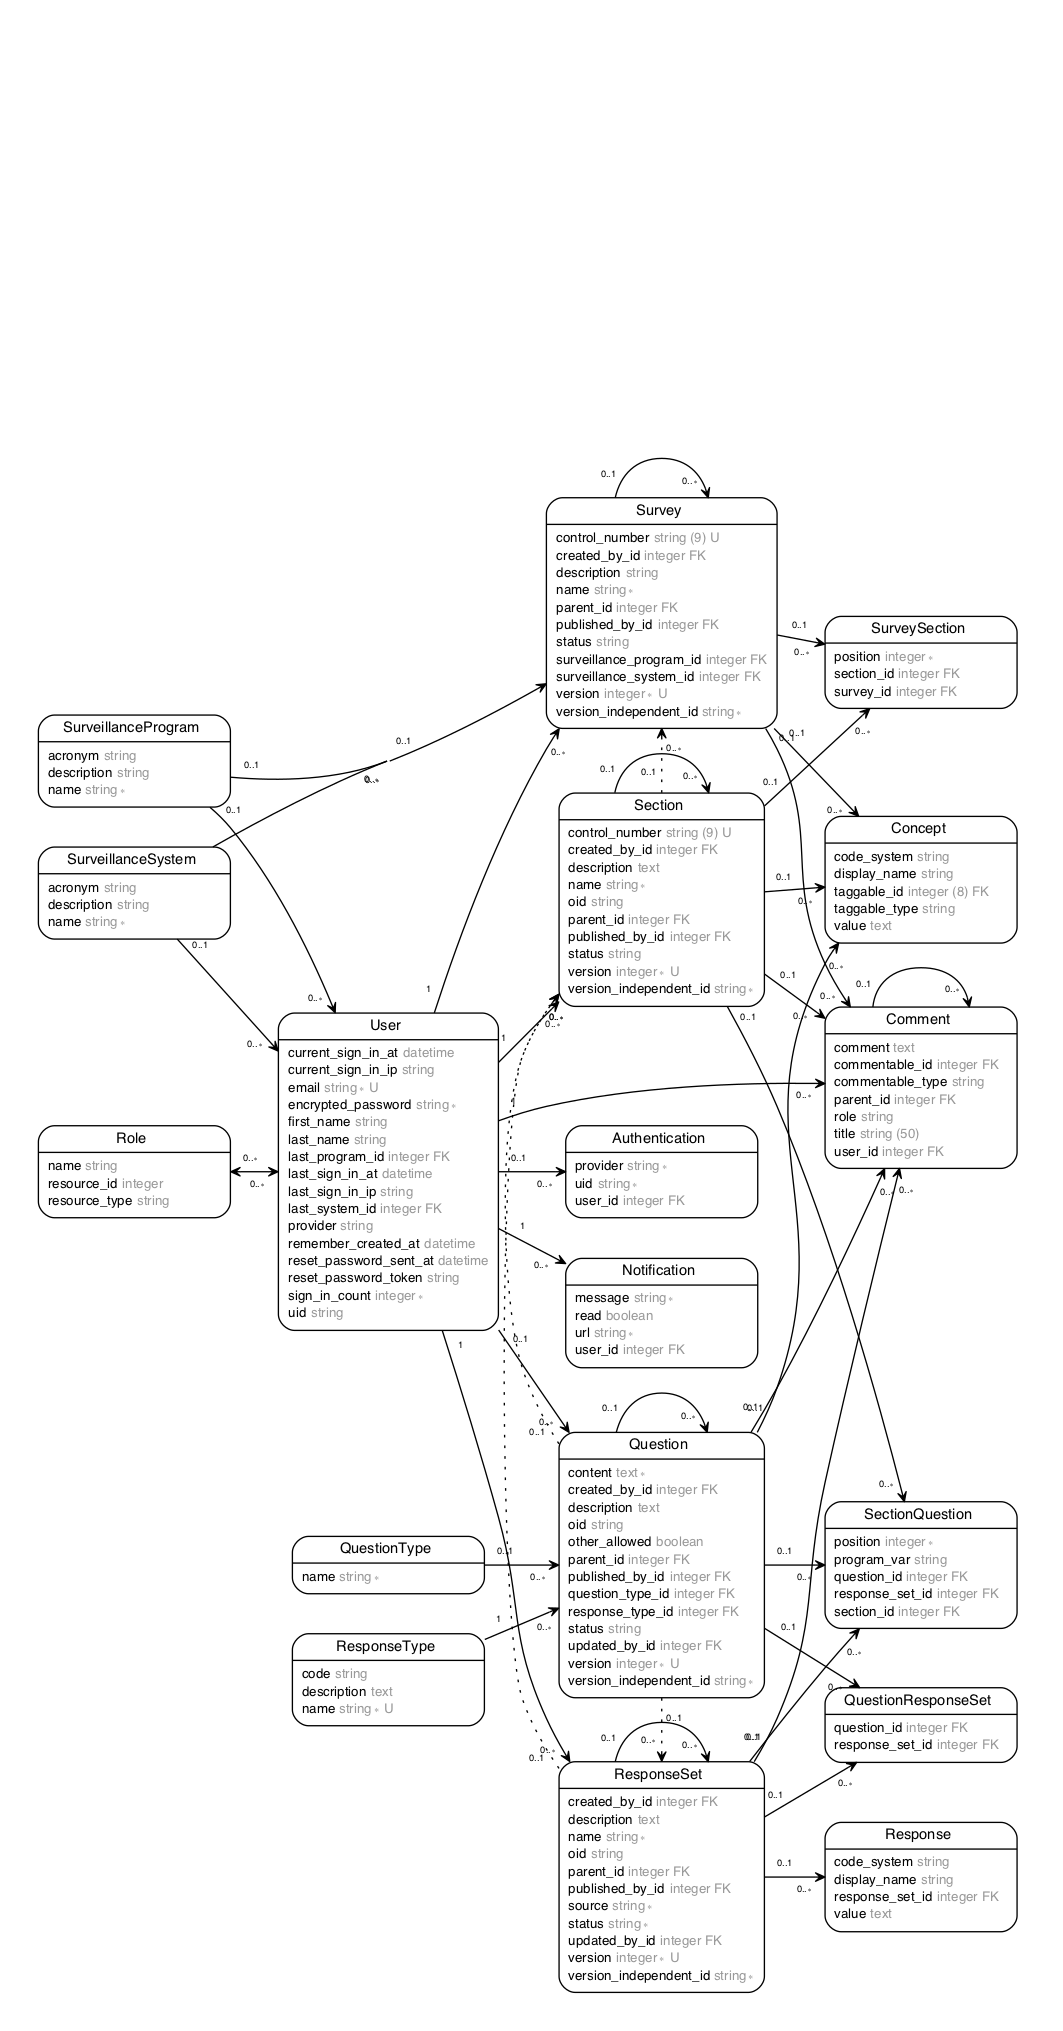
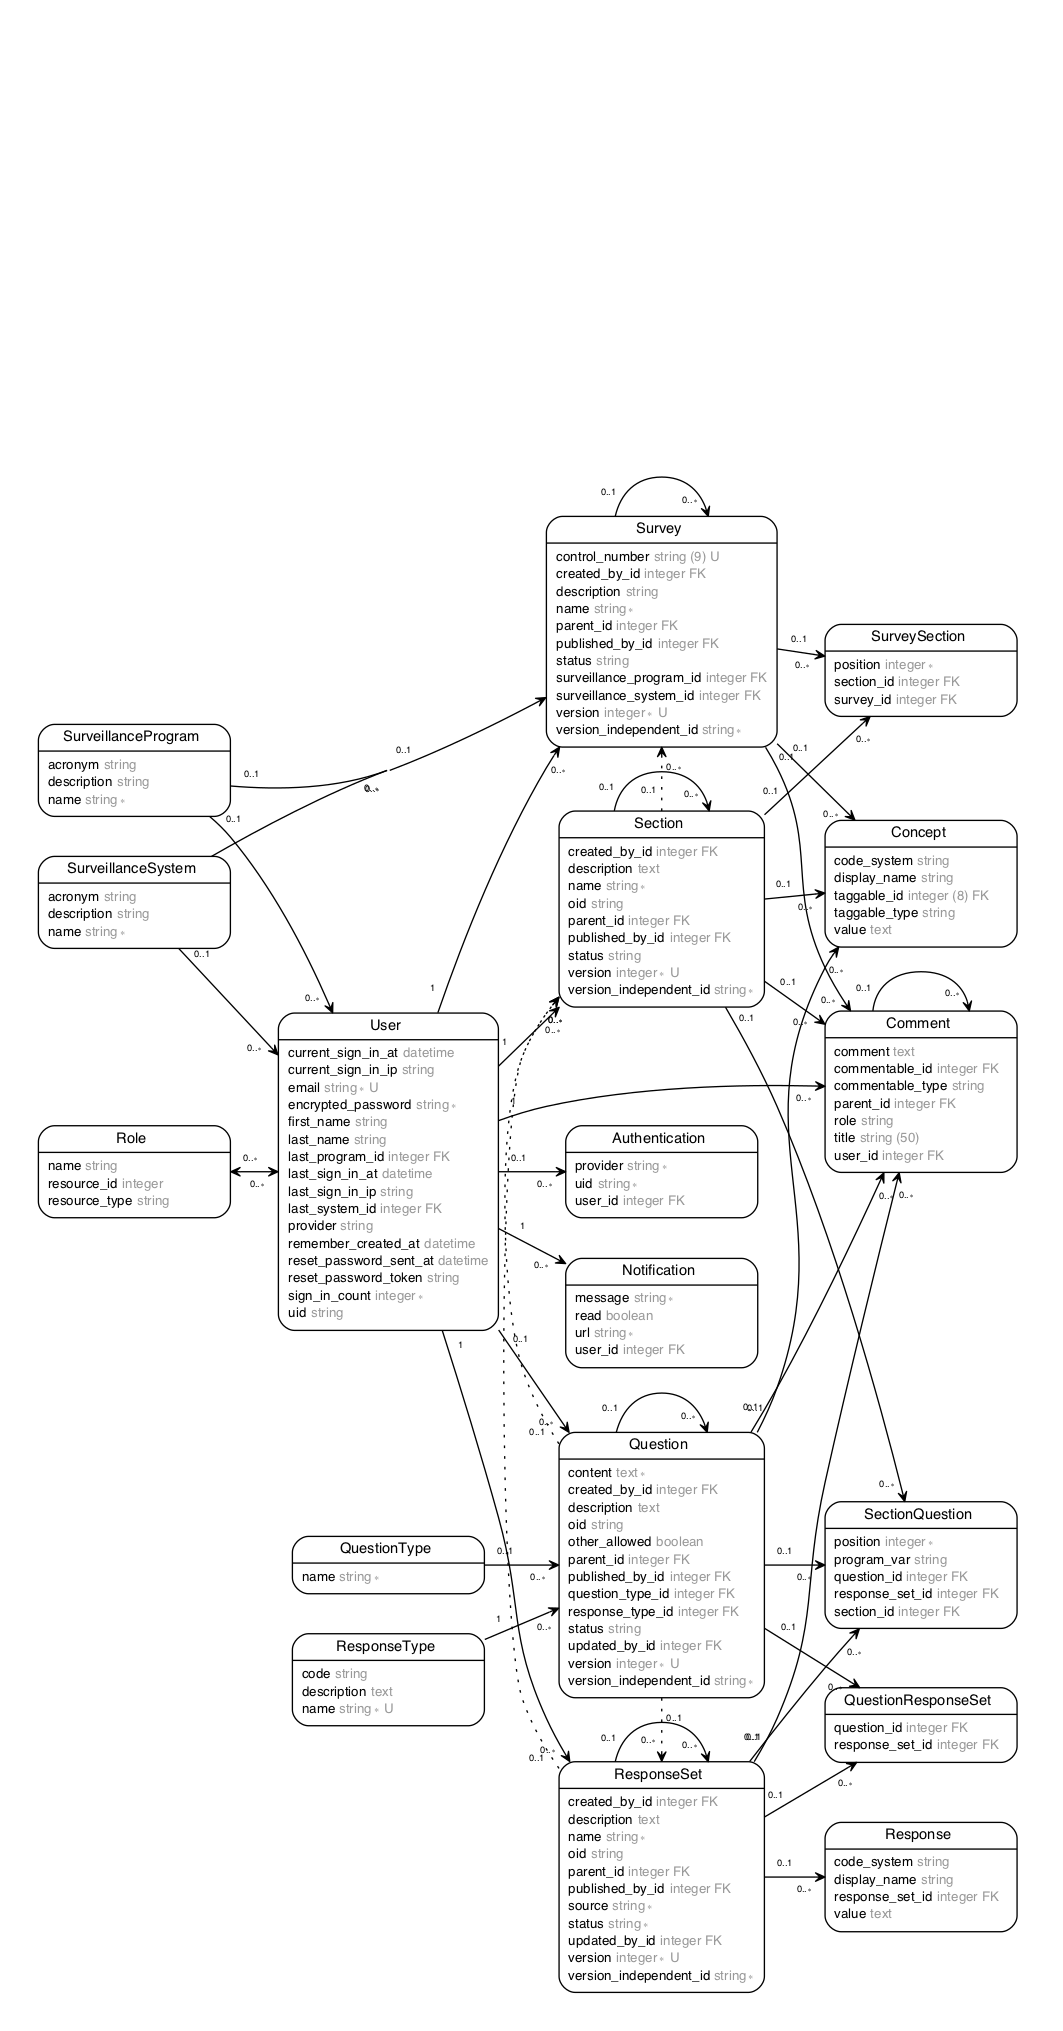
Removing omb from sections, already on surveys

diff --git a/webpack/components/sections/SectionEdit.js b/webpack/components/sections/SectionEdit.js
@@ -29,7 +29,6 @@ class SectionEdit extends Component {
     state.versionIndependentId = null;
     state.version = 1;
     state.parentId = section.id;
-    state.controlNumber = '';
     return state;
   }
 
@@ -40,12 +39,11 @@ class SectionEdit extends Component {
     const name = section.name || '';
     const description = section.description || '';
     const sectionQuestions = section.sectionQuestions || [];
-    const controlNumber = section.controlNumber;
     const showWarningModal = false;
     const parentId = section.parent ? section.parent.id : '';
     const conceptsAttributes = filterConcepts(section.concepts) || [];
     const linkedResponseSets = this.findLinkedResponseSets(sectionQuestions);
-    return {sectionQuestions, name, id, version, versionIndependentId, controlNumber, description, showWarningModal, parentId, linkedResponseSets, conceptsAttributes};
+    return {sectionQuestions, name, id, version, versionIndependentId, description, showWarningModal, parentId, linkedResponseSets, conceptsAttributes};
   }
 
   constructor(props) {
@@ -73,7 +71,6 @@ class SectionEdit extends Component {
     this.cancelLeaveModal = this.cancelLeaveModal.bind(this);
     this.handleChangeName = this.handleChangeName.bind(this);
     this.moveQuestionDown = this.moveQuestionDown.bind(this);
-    this.handleChangeControl = this.handleChangeControl.bind(this);
     this.handleModalResponse = this.handleModalResponse.bind(this);
     this.handleProgramVarChange   = this.handleProgramVarChange.bind(this);
     this.handleChangeDescription  = this.handleChangeDescription.bind(this);
@@ -164,10 +161,6 @@ class SectionEdit extends Component {
 
   handleChangeDescription(event){
     this.handleChange('description', event);
-  }
-
-  handleChangeControl(event){
-    this.handleChange('controlNumber', event);
   }
 
   handleSubmit(event) {
@@ -338,17 +331,13 @@ class SectionEdit extends Component {
             <div className="row">
               <div className="section-group col-md-12">
                 <label htmlFor="section-name" hidden>Name</label>
-                <input tabIndex="3" className="input-format" placeholder="Name" type="text" value={this.state.name} name="section-name" id="section-name" onChange={this.handleChangeName}/>
+                <input tabIndex="3" className="input-format" placeholder="Section Name" type="text" value={this.state.name} name="section-name" id="section-name" onChange={this.handleChangeName}/>
               </div>
             </div>
             <div className="row">
-              <div className="section-group col-md-8">
+              <div className="section-group col-md-12">
                 <label htmlFor="section-description">Description</label>
                 <input tabIndex="3" className="input-format" placeholder="Enter a description here..." type="text" value={this.state.description || ''} name="section-description" id="section-description" onChange={this.handleChangeDescription}/>
-              </div>
-              <div className="section-group col-md-4">
-                <label htmlFor="controlNumber">OMB Approval</label>
-                <input tabIndex="3" className="input-format" placeholder="XXXX-XXXX" type="text" value={this.state.controlNumber || ''} name="controlNumber" id="controlNumber" onChange={this.handleChangeControl}/>
               </div>
             </div>
           </div>

diff --git a/webpack/components/surveys/SurveyEdit.js b/webpack/components/surveys/SurveyEdit.js
@@ -201,13 +201,13 @@ class SurveyEdit extends Component {
             <div className="row">
               <div className="survey-group col-md-12">
                 <label htmlFor="survey-name" hidden>Name</label>
-                <input tabIndex="3" className="input-format" placeholder="Name" type="text" value={this.state.name} name="survey-name" id="survey-name" onChange={this.handleChange('name')}/>
+                <input tabIndex="3" className="input-format" placeholder="Survey Name" type="text" value={this.state.name} name="survey-name" id="survey-name" onChange={this.handleChange('name')}/>
               </div>
             </div>
             <div className="row">
               <div className="survey-group col-md-8">
                 <label htmlFor="survey-description">Description</label>
-                <input tabIndex="3" className="input-format" type="text" value={this.state.description || ''} name="survey-description" id="survey-description" onChange={this.handleChange('description')}/>
+                <input tabIndex="3" className="input-format" placeholder="Enter a description here..." type="text" value={this.state.description || ''} name="survey-description" id="survey-description" onChange={this.handleChange('description')}/>
               </div>
               <div className="survey-group col-md-4">
                 <label htmlFor="controlNumber">OMB Approval</label>

diff --git a/app/models/section.rb b/app/models/section.rb
@@ -14,10 +14,6 @@ class Section < ApplicationRecord
 
   validates :name, presence: true
   validates :created_by, presence: true
-  validates :control_number, allow_blank: true, format: { with: /\A\d{4}-\d{4}\z/,
-                                                          message: 'must be a valid OMB Control Number' },
-                             uniqueness: { message: 'sections should have different OMB Control Numbers',
-                                           unless: proc { |s| s.version > 1 && s.other_versions.map(&:control_number).include?(s.control_number) } }
 
   accepts_nested_attributes_for :questions, allow_destroy: true
 
@@ -82,16 +78,12 @@ class Section < ApplicationRecord
     new_revision = Section.new(version_independent_id: version_independent_id,
                                description: description, parent_id: parent_id, status: status,
                                version: version + 1, name: name, oid: oid,
-                               created_by: created_by, control_number: control_number)
+                               created_by: created_by)
     concepts.each do |c|
       new_revision.concepts << c.dup
     end
 
     new_revision
-  end
-
-  def omb_approved?
-    control_number.present?
   end
 
   # Get the programs that the section is associated with by the surveys that the

diff --git a/test/models/section_test.rb b/test/models/section_test.rb
@@ -16,19 +16,6 @@ class SectionTest < ActiveSupport::TestCase
     assert_nil revision.oid
   end
 
-  test 'make sure the OMB control number is unique' do
-    sect = Section.new(name: 'Doubly Double', control_number: '1234-5678')
-    assert_not sect.save
-  end
-
-  test 'same OMB control number is OK across versions' do
-    sect = sections(:one)
-    revision = sect.build_new_revision
-    assert_equal 2, revision.version
-    assert revision.save
-    assert_equal sect.control_number, revision.control_number
-  end
-
   test 'Publish also publishes questions and response sets' do
     user = users(:admin)
     rs = ResponseSet.new(name: 'Test publish', created_by: user)

diff --git a/app/controllers/sections_controller.rb b/app/controllers/sections_controller.rb
@@ -167,7 +167,7 @@ class SectionsController < ApplicationController
   # Never trust parameters from the scary internet, only allow the white list through.
   def section_params
     params.require(:section).permit(:name, :user_id, :search, :description, :parent_id,
-                                    :status, :version_independent_id, :control_number,
+                                    :status, :version_independent_id,
                                     concepts_attributes: [:id, :value, :display_name, :code_system])
   end
 end

diff --git a/test/controllers/sections_controller_test.rb b/test/controllers/sections_controller_test.rb
@@ -69,7 +69,7 @@ class SectionsControllerTest < ActionDispatch::IntegrationTest
 
     draft_section = sections(:draft)
 
-    section_json = { section: { name: draft_section.name, created_by_id: @section.created_by_id, control_number: '5678-5678' } }.to_json
+    section_json = { section: { name: draft_section.name, created_by_id: @section.created_by_id } }.to_json
     put section_url(draft_section), params: section_json, headers: { 'ACCEPT' => 'application/json', 'CONTENT_TYPE' => 'application/json' }
 
     assert_enqueued_jobs 1

diff --git a/db/migrate/20171018181719_remove_control_number_from_section.rb b/db/migrate/20171018181719_remove_control_number_from_section.rb
@@ -1,0 +1,5 @@
+class RemoveControlNumberFromSection < ActiveRecord::Migration[5.1]
+  def change
+    remove_column :sections, :control_number, :string, limit: 9
+  end
+end
